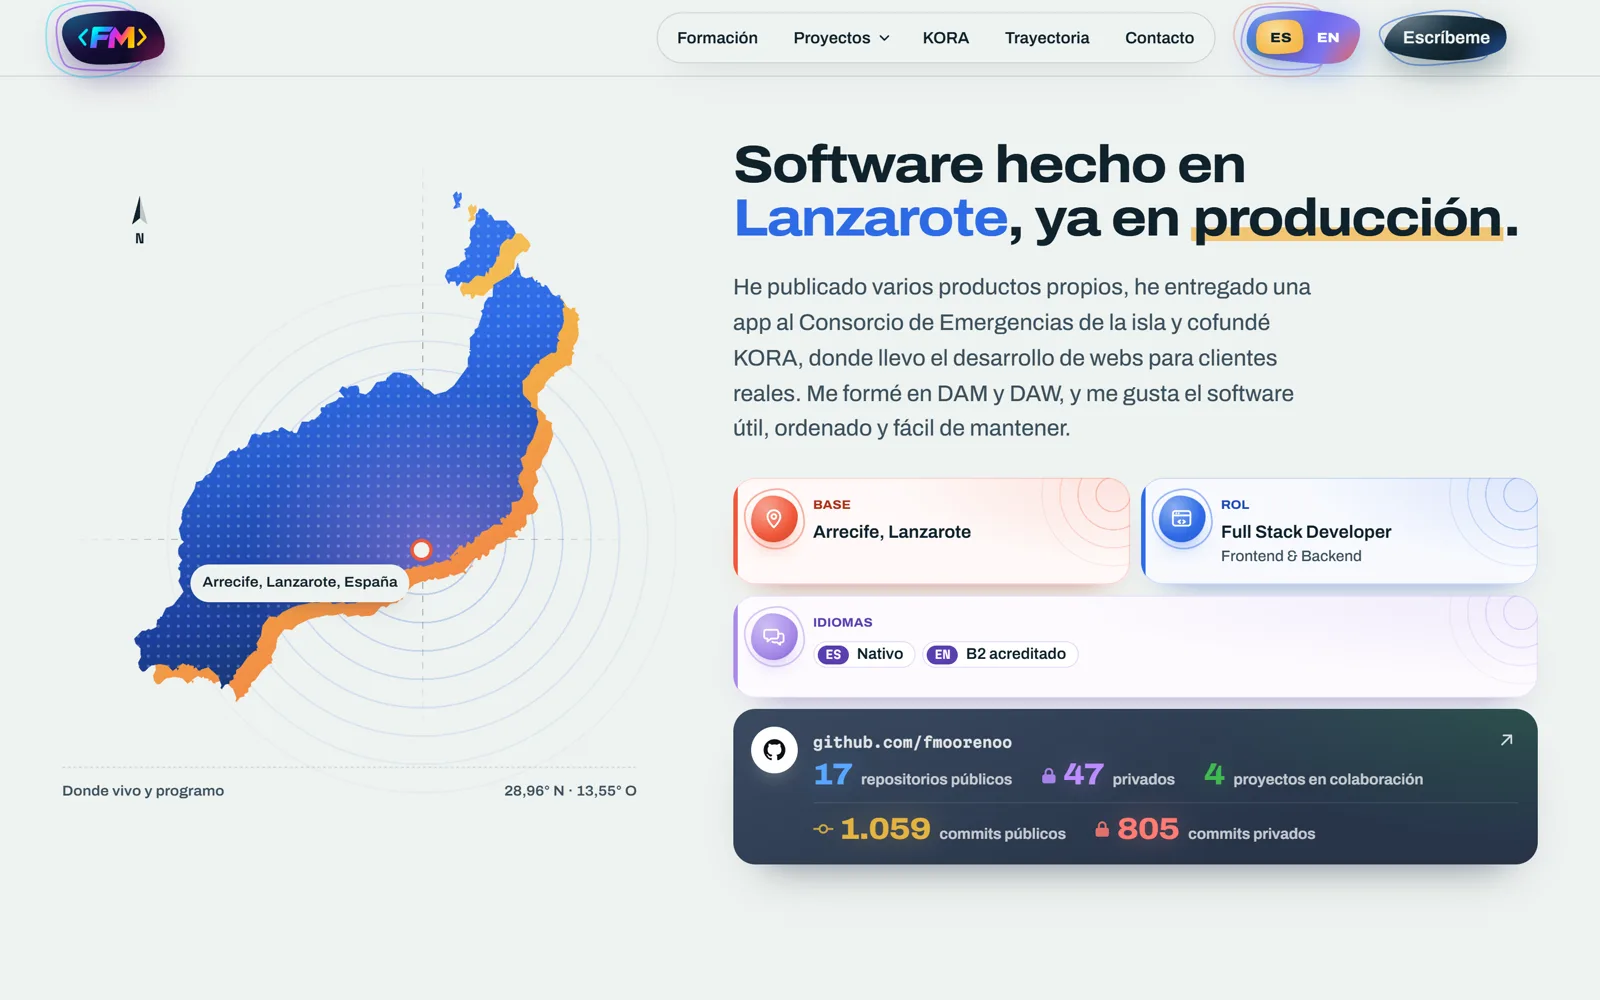
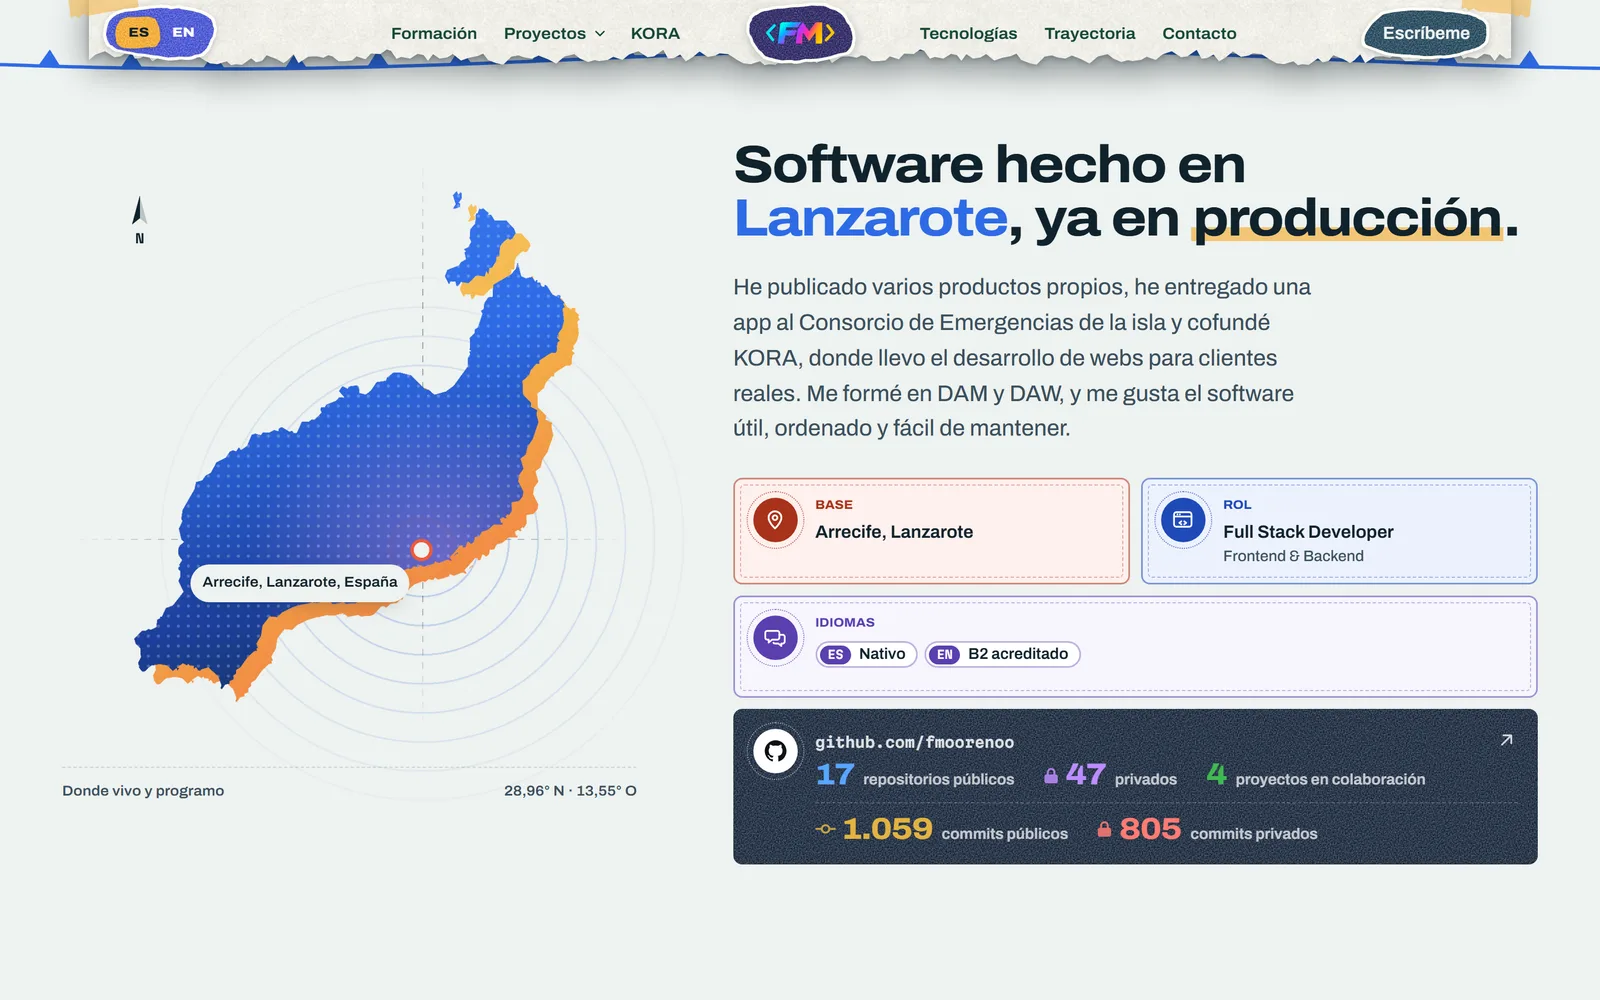
Capturas del README actualizadas al rediseño

diff --git a/README.md b/README.md
@@ -25,7 +25,7 @@
 ---
 
 <div align="center">
-  <img src="docs/img/portada.webp" alt="Portada del portfolio: «Hola, soy Fernando.» junto al retrato sobre un sol de calima" width="100%">
+  <img src="docs/img/portada.webp" alt="Portada del portfolio: «Hola, soy Fernando.» en una forma de papel azul junto al retrato sobre un sol de calima, bajo la cabecera de papel rasgado" width="100%">
 </div>
 
 ## Sobre el proyecto
@@ -90,11 +90,11 @@ Producto y dirección de diseño: [`PRODUCT.md`](PRODUCT.md) y [`DESIGN.md`](DES
 
 | Software hecho en Lanzarote | Proyectos |
 | :---: | :---: |
-| <img src="docs/img/parte.webp" alt="Sección con el mapa de Lanzarote y las cifras de GitHub" width="100%"> | <img src="docs/img/proyectos.webp" alt="Tarjeta de LanzaMet en la sección de proyectos" width="100%"> |
+| <img src="docs/img/parte.webp" alt="Sección con el mapa de Lanzarote y las cifras de GitHub" width="100%"> | <img src="docs/img/proyectos.webp" alt="LanzaMet en la sección de proyectos, con su mapa de Lanzarote y las capturas de la app" width="100%"> |
 
 | Ventana de proyecto | KORA |
 | :---: | :---: |
-| <img src="docs/img/ventana-proyecto.webp" alt="Ventana del proyecto LanzaMet" width="100%"> | <img src="docs/img/kora.webp" alt="Tramo horizontal de KORA con sus webs" width="100%"> |
+| <img src="docs/img/ventana-proyecto.webp" alt="Ventana del proyecto LanzaMet" width="100%"> | <img src="docs/img/kora.webp" alt="Tramo horizontal de KORA con sus webs como tarjetas impresas" width="100%"> |
 
 | Tecnologías y escritorio | Trayectoria |
 | :---: | :---: |
@@ -102,7 +102,7 @@ Producto y dirección de diseño: [`PRODUCT.md`](PRODUCT.md) y [`DESIGN.md`](DES
 
 | Contacto | En el móvil |
 | :---: | :---: |
-| <img src="docs/img/contacto.webp" alt="Sección de contacto sobre la carta nocturna" width="560"> | <img src="docs/img/portada-movil.webp" alt="Portada del portfolio en el móvil" width="200"> |
+| <img src="docs/img/contacto.webp" alt="Sección de contacto: «¿Hablamos?», correo, CV y enlaces" width="560"> | <img src="docs/img/portada-movil.webp" alt="Portada del portfolio en el móvil" width="200"> |
 
 ## Instalación y ejecución
 
